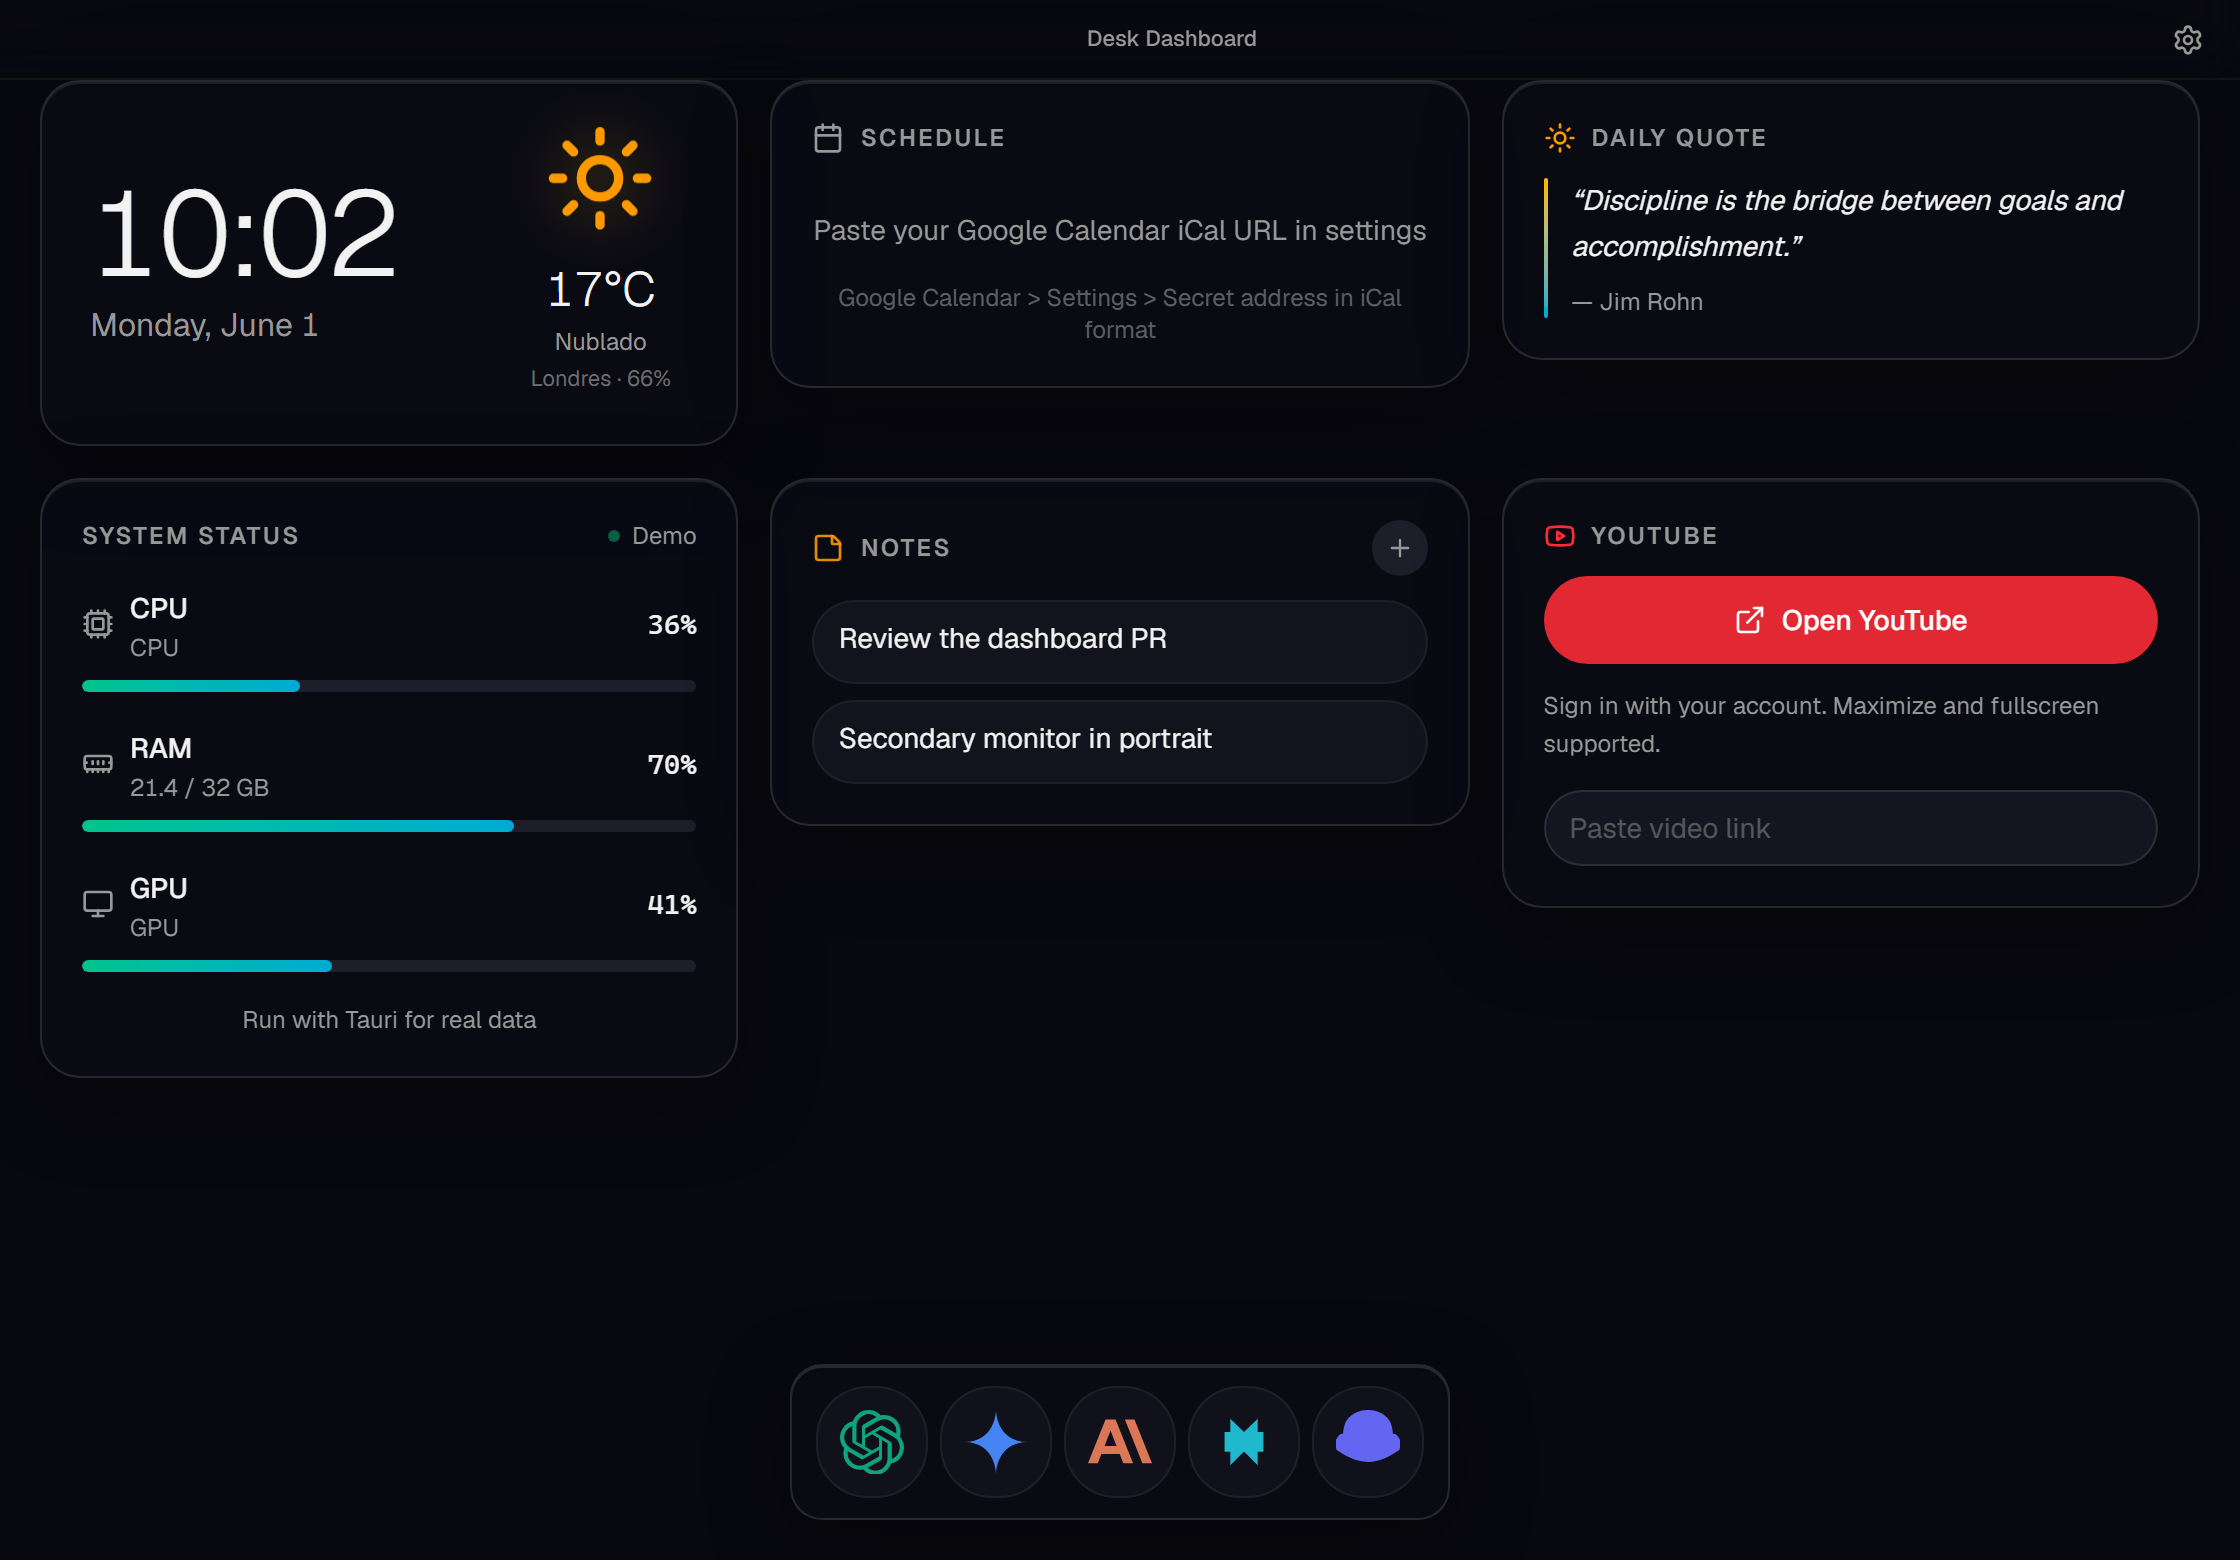
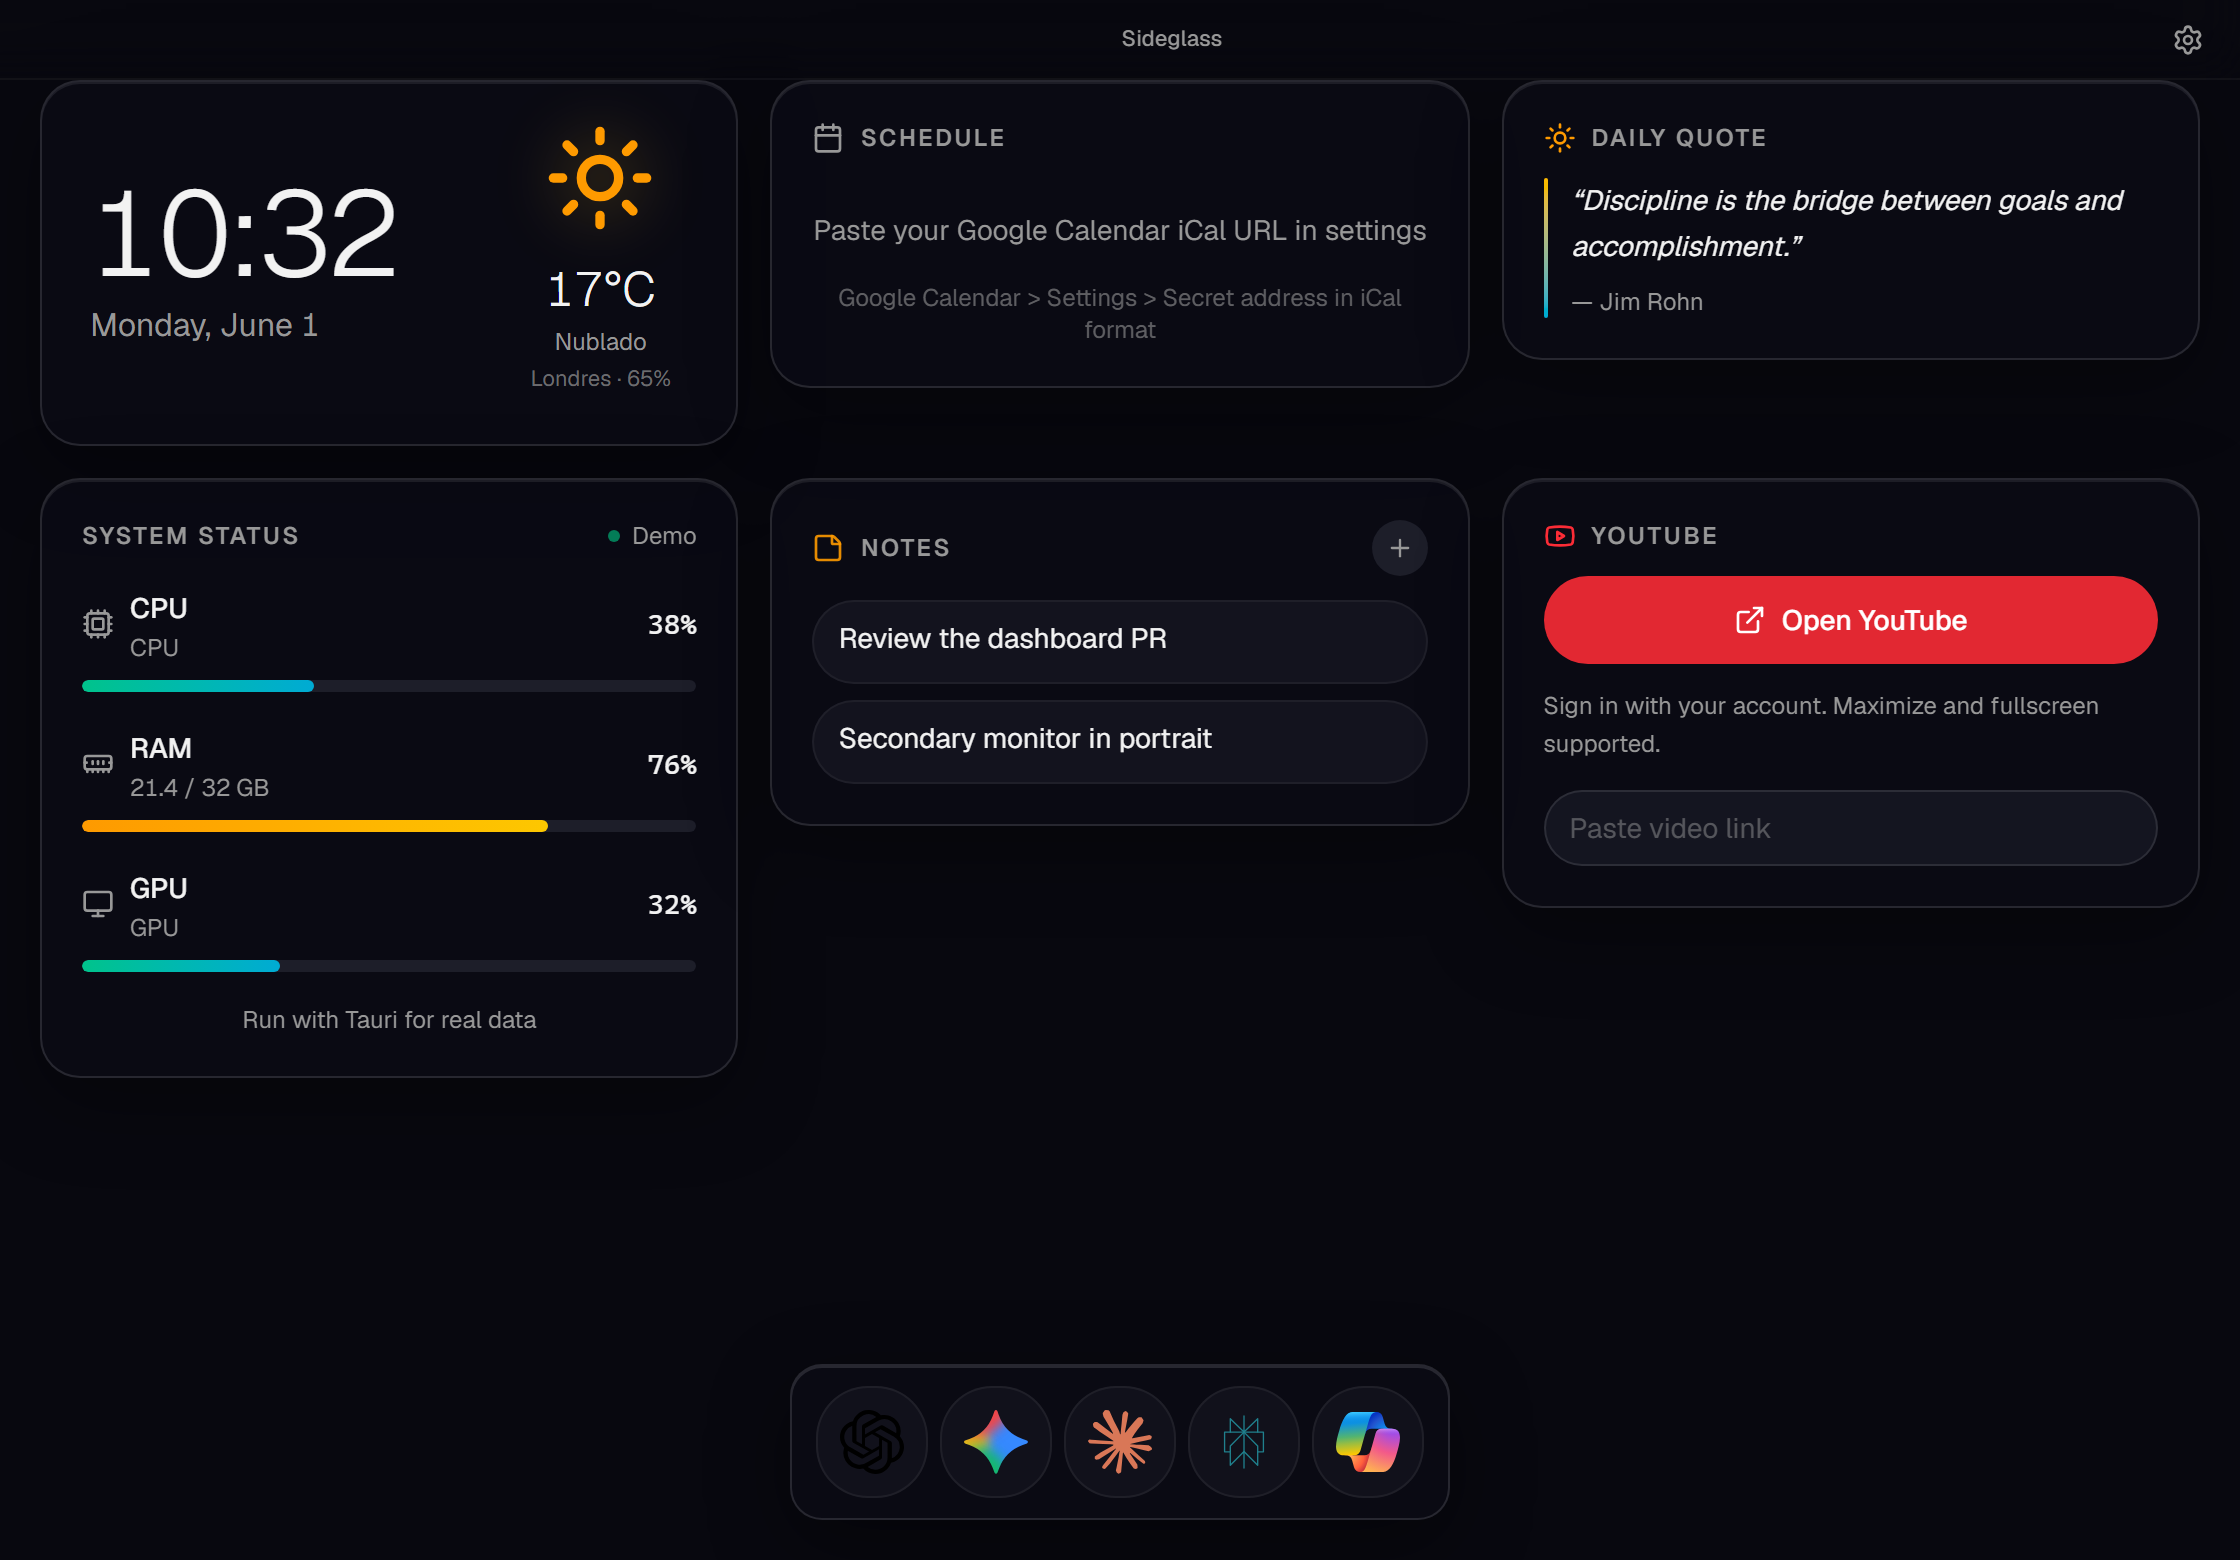
fix: icono Microsoft Copilot (svgl) y capturas de landing actualizadas

diff --git a/lib/landing-content.ts b/lib/landing-content.ts
@@ -76,7 +76,7 @@ export const landingContent: Record<LandingLang, LandingCopy> = {
       },
       {
         label: "Dock de IAs",
-        desc: "ChatGPT, Gemini, Claude, Perplexity y Copilot con iconos oficiales de marca.",
+        desc: "ChatGPT, Gemini, Claude, Perplexity y Microsoft Copilot con iconos oficiales de marca.",
       },
       {
         label: "Notas locales",
@@ -171,7 +171,7 @@ export const landingContent: Record<LandingLang, LandingCopy> = {
       },
       {
         label: "AI dock",
-        desc: "ChatGPT, Gemini, Claude, Perplexity and Copilot with official brand icons.",
+        desc: "ChatGPT, Gemini, Claude, Perplexity and Microsoft Copilot with official brand icons.",
       },
       { label: "Local notes", desc: "Quick notepad with premium design. Data stays on your PC." },
     ],

diff --git a/components/icons/ai-brand-icon.tsx b/components/icons/ai-brand-icon.tsx
@@ -20,5 +20,6 @@ export const AI_BRAND_ICONS = {
   gemini: "/icons/ai/gemini.svg",
   claude: "/icons/ai/claude.svg",
   perplexity: "/icons/ai/perplexity.svg",
+  /** Microsoft Copilot (not GitHub Copilot) — svgl.app/library/microsoft-copilot.svg */
   copilot: "/icons/ai/copilot.svg",
 } as const

diff --git a/components/dashboard/ai-dock.tsx b/components/dashboard/ai-dock.tsx
@@ -16,7 +16,7 @@ const aiApps = [
   },
   {
     id: "copilot",
-    name: "Copilot",
+    name: "Microsoft Copilot",
     iconSrc: AI_BRAND_ICONS.copilot,
     url: "https://copilot.microsoft.com",
   },
